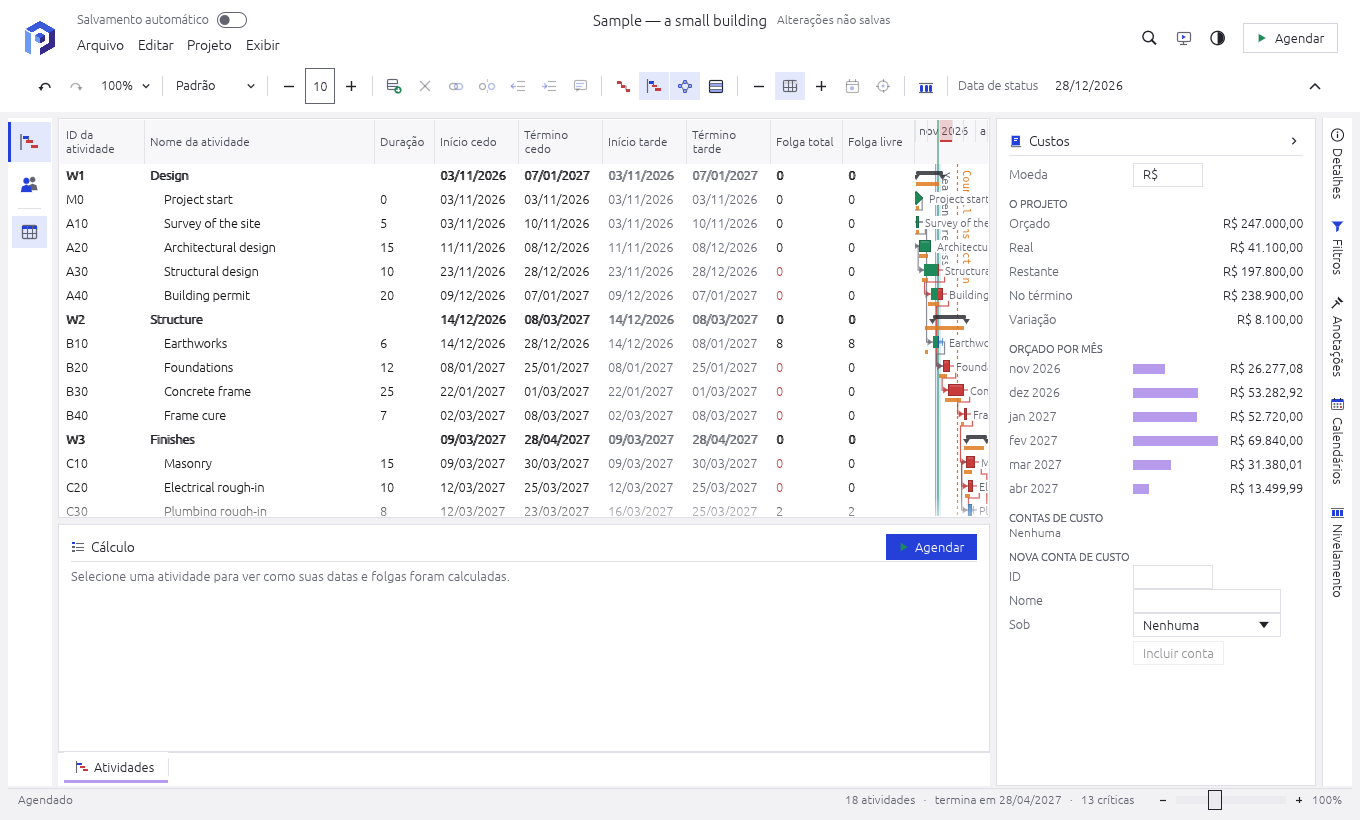
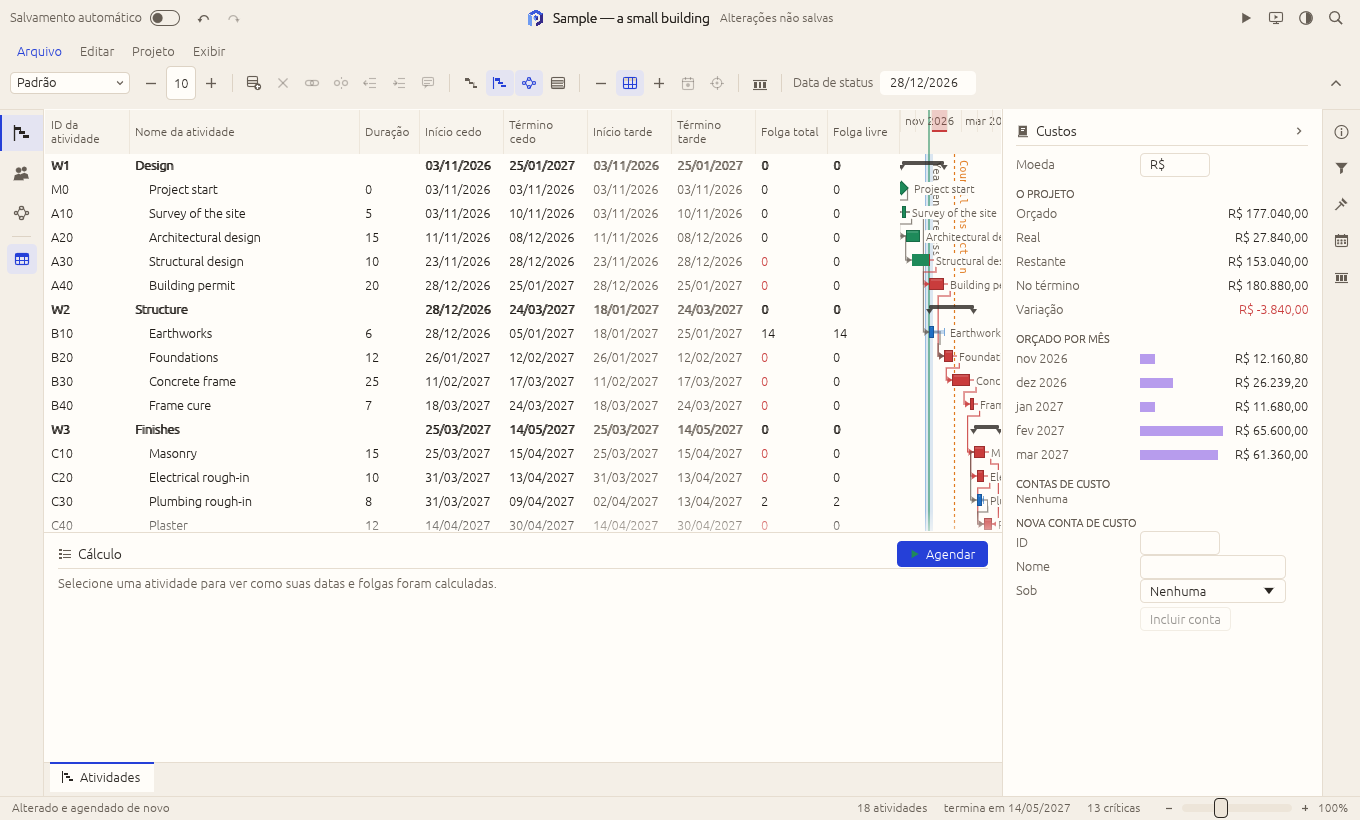
README screenshots in the new design, and how they are made
The Resources, Costs (Português) and Earned value (dark) screenshots
showed the old design: each needs the sample under way first, and the
commands that set it up had not been kept. docs/screenshots.md now
holds every screenshot's command: the sample as is for Activities,
Calendars and the splash; the sample under way (three resources with
prices, six assignments, progress up to a data date of 28-Dec-26, two
stored financial periods), run through the snapshot example's --cmd,
for the other three. Rendered again from it; the first three came out
identical, so the rendering is repeatable. The README and
ATTRIBUTION.md point to it.

Fixes #72

diff --git a/ATTRIBUTION.md b/ATTRIBUTION.md
@@ -10,9 +10,9 @@ covered by the code's licences; they need no row.
 | File | Author | Source | Terms |
 | --- | --- | --- | --- |
 | Morrison Kühlsen wordmark | Morrison Kühlsen | `docs/brand/morrison-kuhlsen.png`; the wordmark in morrisonkuhlsen.com's header (its SVG, drawn in white), as in MK Sigma and MK aeGIS | Morrison Kühlsen brand asset, used with its owner's permission; not covered by the code's licences (`docs/brand/LICENSE.md`) |
-| README screenshot: the Activities window | MK Perth's contributors | `docs/images/activities.png`; MK Perth itself, rendered offscreen by `cargo run -p mkperth-ui-egui --example snapshot` with the sample project | MIT OR Apache-2.0, as the code |
-| README screenshot: the Earned value pane, dark | MK Perth's contributors | `docs/images/earned-value-dark.png`; MK Perth itself, rendered offscreen by `cargo run -p mkperth-ui-egui --example snapshot` with the sample project | MIT OR Apache-2.0, as the code |
-| README screenshot: the Resources view | MK Perth's contributors | `docs/images/resources.png`; MK Perth itself, rendered offscreen by `cargo run -p mkperth-ui-egui --example snapshot` with the sample project | MIT OR Apache-2.0, as the code |
-| README screenshot: the Costs pane, in Portuguese | MK Perth's contributors | `docs/images/costs-pt-BR.png`; MK Perth itself, rendered offscreen by `cargo run -p mkperth-ui-egui --example snapshot` with the sample project | MIT OR Apache-2.0, as the code |
-| README screenshot: the Calendars pane, dark | MK Perth's contributors | `docs/images/calendars-dark.png`; MK Perth itself, rendered offscreen by `cargo run -p mkperth-ui-egui --example snapshot` with the sample project | MIT OR Apache-2.0, as the code |
-| README screenshot: the splash screen | MK Perth's contributors | `docs/images/splash.png`; MK Perth itself, rendered offscreen by `cargo run -p mkperth-ui-egui --example snapshot` with the sample project | MIT OR Apache-2.0, as the code; the splash shows the Morrison Kühlsen wordmark, under its own terms (`docs/brand/LICENSE.md`) |
+| README screenshot: the Activities window | MK Perth's contributors | `docs/images/activities.png`; MK Perth itself, rendered offscreen by `cargo run -p mkperth-ui-egui --example snapshot` with the sample project, by the commands in `docs/screenshots.md` | MIT OR Apache-2.0, as the code |
+| README screenshot: the Earned value pane, dark | MK Perth's contributors | `docs/images/earned-value-dark.png`; MK Perth itself, rendered offscreen by `cargo run -p mkperth-ui-egui --example snapshot` with the sample project, by the commands in `docs/screenshots.md` | MIT OR Apache-2.0, as the code |
+| README screenshot: the Resources view | MK Perth's contributors | `docs/images/resources.png`; MK Perth itself, rendered offscreen by `cargo run -p mkperth-ui-egui --example snapshot` with the sample project, by the commands in `docs/screenshots.md` | MIT OR Apache-2.0, as the code |
+| README screenshot: the Costs pane, in Portuguese | MK Perth's contributors | `docs/images/costs-pt-BR.png`; MK Perth itself, rendered offscreen by `cargo run -p mkperth-ui-egui --example snapshot` with the sample project, by the commands in `docs/screenshots.md` | MIT OR Apache-2.0, as the code |
+| README screenshot: the Calendars pane, dark | MK Perth's contributors | `docs/images/calendars-dark.png`; MK Perth itself, rendered offscreen by `cargo run -p mkperth-ui-egui --example snapshot` with the sample project, by the commands in `docs/screenshots.md` | MIT OR Apache-2.0, as the code |
+| README screenshot: the splash screen | MK Perth's contributors | `docs/images/splash.png`; MK Perth itself, rendered offscreen by `cargo run -p mkperth-ui-egui --example snapshot` with the sample project, by the commands in `docs/screenshots.md` | MIT OR Apache-2.0, as the code; the splash shows the Morrison Kühlsen wordmark, under its own terms (`docs/brand/LICENSE.md`) |

diff --git a/docs/screenshots.md b/docs/screenshots.md
@@ -1,0 +1,55 @@
+# The README's screenshots
+
+Every image in `docs/images/` is MK Perth itself, rendered offscreen by the snapshot example
+(`crates/ui-egui/examples/snapshot.rs`) from the sample project: no window, nothing captured
+from the desktop. After a visual change, render them again with the commands below, from the
+repository's root, and look at each before committing.
+
+## The sample, as is
+
+```sh
+snap() { cargo run -q -p mkperth-ui-egui --example snapshot -- "$@"; }
+
+snap --select 9 docs/images/activities.png                        # B20's calculation
+snap --dark --select 4 --side calendars docs/images/calendars-dark.png
+snap --splash docs/images/splash.png
+```
+
+## The sample, under way
+
+Resources, costs and earned value need a project with work in it: three resources with prices,
+six assignments, progress up to a data date of 28 December 2026 (M0, A10 and A20 done, A30 nine
+tenths through) and the months of November and December stored as financial periods. The
+commands run first, through `--cmd`, in this order; `--lang` comes before them, so the status
+bar speaks the language too.
+
+```sh
+UNDER_WAY=(
+  --cmd 'project.options={"currency":"R$","data_date":"2026-12-28"}'
+  --cmd 'resource.add={"id":"ANA","name":"Ana Souza","prices":[{"from":null,"price":120}]}'
+  --cmd 'resource.add={"id":"CREW","name":"Concrete crew","prices":[{"from":null,"price":140}]}'
+  --cmd 'resource.add={"id":"CRANE","name":"Crane","kind":"nonlabor","prices":[{"from":null,"price":450}]}'
+  --cmd 'assignment.add={"activity":"A20","resource":"ANA"}'
+  --cmd 'assignment.add={"activity":"A30","resource":"ANA"}'
+  --cmd 'assignment.add={"activity":"B20","resource":"CREW"}'
+  --cmd 'assignment.add={"activity":"B30","resource":"CREW"}'
+  --cmd 'assignment.add={"activity":"B10","resource":"CRANE"}'
+  --cmd 'assignment.add={"activity":"B30","resource":"CRANE"}'
+  --cmd 'activity.edit={"id":"M0","actual_start":"2026-11-03","actual_finish":"2026-11-03"}'
+  --cmd 'activity.edit={"id":"A10","actual_start":"2026-11-03","actual_finish":"2026-11-10"}'
+  --cmd 'activity.edit={"id":"A20","actual_start":"2026-11-11","actual_finish":"2026-12-08"}'
+  --cmd 'activity.edit={"id":"A30","actual_start":"2026-11-23","percent_complete":90}'
+  --cmd 'assignment.edit={"activity":"A20","resource":"ANA","actual":136}'
+  --cmd 'assignment.edit={"activity":"A30","resource":"ANA","actual":96}'
+  --cmd 'period.generate={"from":"2026-11-01","to":"2026-12-31","every":"month"}'
+  --cmd 'period.store={"name":"2026-11"}'
+  --cmd 'period.store={"name":"2026-12"}'
+)
+
+snap "${UNDER_WAY[@]}" --view resources --resource 2 docs/images/resources.png   # CREW
+snap --lang pt-BR "${UNDER_WAY[@]}" --side costs docs/images/costs-pt-BR.png
+snap --dark "${UNDER_WAY[@]}" --side earned --size 1360x900 docs/images/earned-value-dark.png
+```
+
+The snapshot example's other options (`--side`, `--details`, `--view`, `--click`, `--size`…)
+are listed at the top of its source.

diff --git a/README.md b/README.md
@@ -138,6 +138,9 @@ Offscreen screenshots, with no window and nothing captured from the desktop:
 cargo run -p mkperth-ui-egui --example snapshot -- [--in project.json] [--dark] [--lang pt-BR] out.png
 ```
 
+The commands that render this README's screenshots are in
+[`docs/screenshots.md`](docs/screenshots.md).
+
 The wasm gate needs the target once: `rustup target add wasm32-unknown-unknown`.
 
 The whole app in a browser, in `target/web` (serve the folder, e.g. `python3 -m http.server`):
